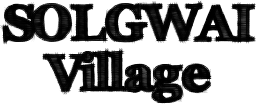
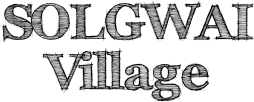
map font

diff --git a/index.html b/index.html
@@ -5,7 +5,7 @@
     <link href="Images/image0.jpg" rel="icon">
     <meta charset="utf-8">
     <title>SOLGWAIS</title>
-    <link rel="stylesheet" href="style.css??v=1.2">
+    <link rel="stylesheet" href="style.css??v=1.3">
     <link href='https://fonts.googleapis.com/css?family=Merienda' rel='stylesheet'>
     <link href='https://fonts.googleapis.com/css?family=Bubblegum Sans' rel='stylesheet'>
   </head>
@@ -39,6 +39,7 @@
         <h1 id="title">SOLGWAIS</h1>
         <div id="home-page-section"></div>
         <div id="slideshow"></div> 
+        <div id="infront"></div>
       </section>
       <section id="about">
         <h2 id="title">About Us</h2>

diff --git a/style.css b/style.css
@@ -160,7 +160,7 @@ header {
   #squad {
     margin-top: 200px;
   }
-  
+
   #home-page-section {
     position: relative;
     z-index: 1; /* set z-index to ensure content appears on top of slideshow */
@@ -180,6 +180,17 @@ header {
     animation: scroll 160s linear infinite;
  } 
   
+  #infront {
+    position: absolute;
+    background-image: url('Images/transparent base.png');
+    background-size: auto 50%;
+    background-repeat: no-repeat;
+    background-position: 0 0;
+    width: 100%;
+    height: 100%;
+    z-index: 1;
+  }
+
  body {
     font-family: 'Merienda';
     color: white;

diff --git a/Macro-to-create-txt-images/strokecreator-separateline.py b/Macro-to-create-txt-images/strokecreator-separateline.py
@@ -5,8 +5,8 @@ image_width = 600
 image_height = 300
 
 # Set text to be written
-text_line1 = "Enchanted"
-text_line2 = "Forest"
+text_line1 = "Whispering"
+text_line2 = "Valley"
 
 # Set font size and font style
 font_path = "Macro-to-create-txt-images/FFF-Tusj/FFF_Tusj.ttf"
@@ -33,21 +33,21 @@ y_line1 = (image_height - text_line1_height - text_line2_height) // 2
 x_line2 = (image_width - text_line2_width) // 2
 y_line2 = y_line1 + text_line1_height
 
-# Draw text with stroke for line 1
-draw.text((x_line1-stroke_width, y_line1-stroke_width), text_line1, font=font, fill=stroke_color)
-draw.text((x_line1+stroke_width, y_line1-stroke_width), text_line1, font=font, fill=stroke_color)
-draw.text((x_line1-stroke_width, y_line1+stroke_width), text_line1, font=font, fill=stroke_color)
-draw.text((x_line1+stroke_width, y_line1+stroke_width), text_line1, font=font, fill=stroke_color)
+# # Draw text with stroke for line 1
+# draw.text((x_line1-stroke_width, y_line1-stroke_width), text_line1, font=font, fill=stroke_color)
+# draw.text((x_line1+stroke_width, y_line1-stroke_width), text_line1, font=font, fill=stroke_color)
+# draw.text((x_line1-stroke_width, y_line1+stroke_width), text_line1, font=font, fill=stroke_color)
+# draw.text((x_line1+stroke_width, y_line1+stroke_width), text_line1, font=font, fill=stroke_color)
 
-# Draw text with stroke for line 2
-draw.text((x_line2-stroke_width, y_line2-stroke_width), text_line2, font=font, fill=stroke_color)
-draw.text((x_line2+stroke_width, y_line2-stroke_width), text_line2, font=font, fill=stroke_color)
-draw.text((x_line2-stroke_width, y_line2+stroke_width), text_line2, font=font, fill=stroke_color)
-draw.text((x_line2+stroke_width, y_line2+stroke_width), text_line2, font=font, fill=stroke_color)
+# # Draw text with stroke for line 2
+# draw.text((x_line2-stroke_width, y_line2-stroke_width), text_line2, font=font, fill=stroke_color)
+# draw.text((x_line2+stroke_width, y_line2-stroke_width), text_line2, font=font, fill=stroke_color)
+# draw.text((x_line2-stroke_width, y_line2+stroke_width), text_line2, font=font, fill=stroke_color)
+# draw.text((x_line2+stroke_width, y_line2+stroke_width), text_line2, font=font, fill=stroke_color)
 
 # Draw text
 draw.text((x_line1, y_line1), text_line1, font=font, fill=(0, 0, 0, 255))
 draw.text((x_line2, y_line2), text_line2, font=font, fill=(0, 0, 0, 255))
 
 # Save image
-image.save("Images\Text Images 4 Map\enchantedforest.png")
+image.save("Images\Text Images 4 Map\whisperingvalley.png")

diff --git a/Macro-to-create-txt-images/strokecreator-sameline.py b/Macro-to-create-txt-images/strokecreator-sameline.py
@@ -5,7 +5,7 @@ image_width = 600
 image_height = 300
 
 # Set text to be written
-text = "Crystal Cliffs"
+text = "Silver Sands Beach"
 
 # Set font size and font style
 font_path = "Macro-to-create-txt-images/FFF-Tusj/FFF_Tusj.ttf"
@@ -29,14 +29,14 @@ text_width, text_height = draw.textsize(text, font)
 x = (image_width - text_width) // 2
 y = (image_height - text_height) // 2
 
-# Draw text with stroke
-draw.text((x-stroke_width, y-stroke_width), text, font=font, fill=stroke_color)
-draw.text((x+stroke_width, y-stroke_width), text, font=font, fill=stroke_color)
-draw.text((x-stroke_width, y+stroke_width), text, font=font, fill=stroke_color)
-draw.text((x+stroke_width, y+stroke_width), text, font=font, fill=stroke_color)
+# # Draw text with stroke
+# draw.text((x-stroke_width, y-stroke_width), text, font=font, fill=stroke_color)
+# draw.text((x+stroke_width, y-stroke_width), text, font=font, fill=stroke_color)
+# draw.text((x-stroke_width, y+stroke_width), text, font=font, fill=stroke_color)
+# draw.text((x+stroke_width, y+stroke_width), text, font=font, fill=stroke_color)
 
 # Draw text
 draw.text((x, y), text, font=font, fill=(0, 0, 0, 255))
 
 # Save image
-image.save("Images\Text Images 4 Map\crystalcliffs.png")
+image.save("Images\Text Images 4 Map\silversands.png")
